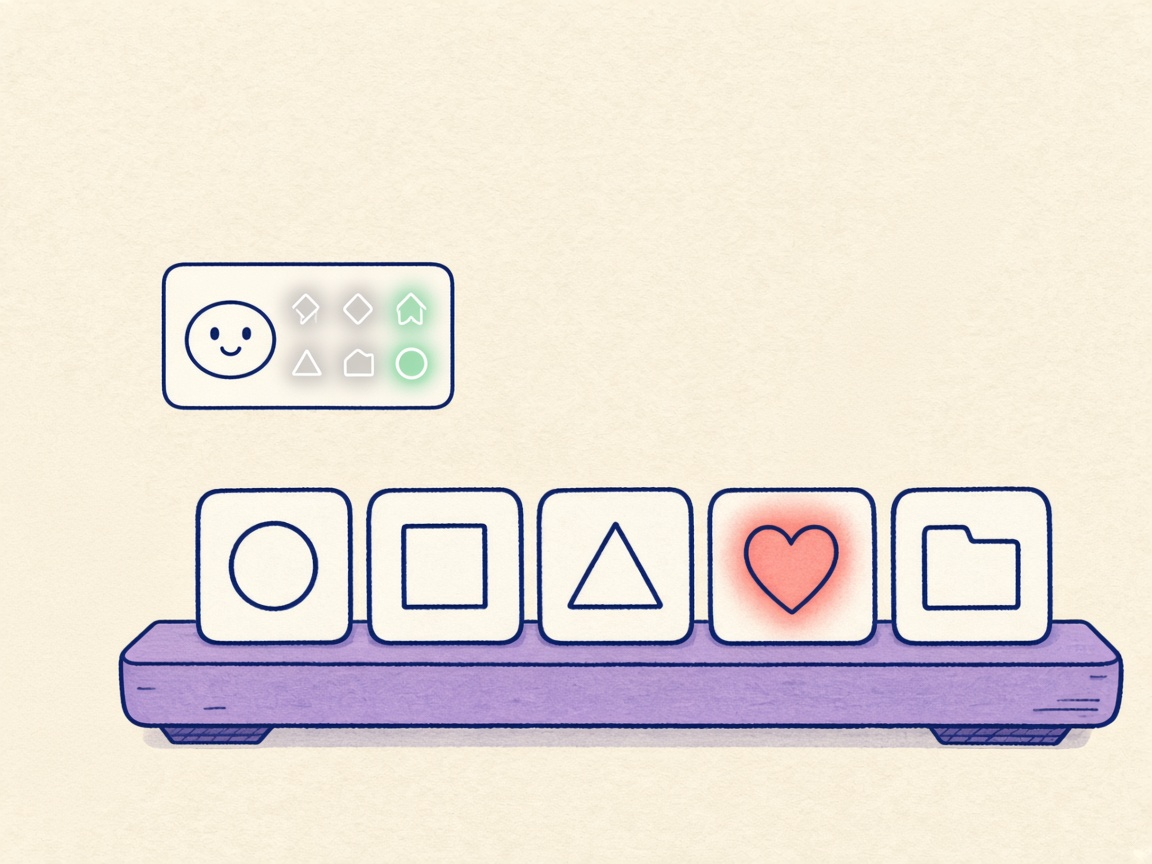
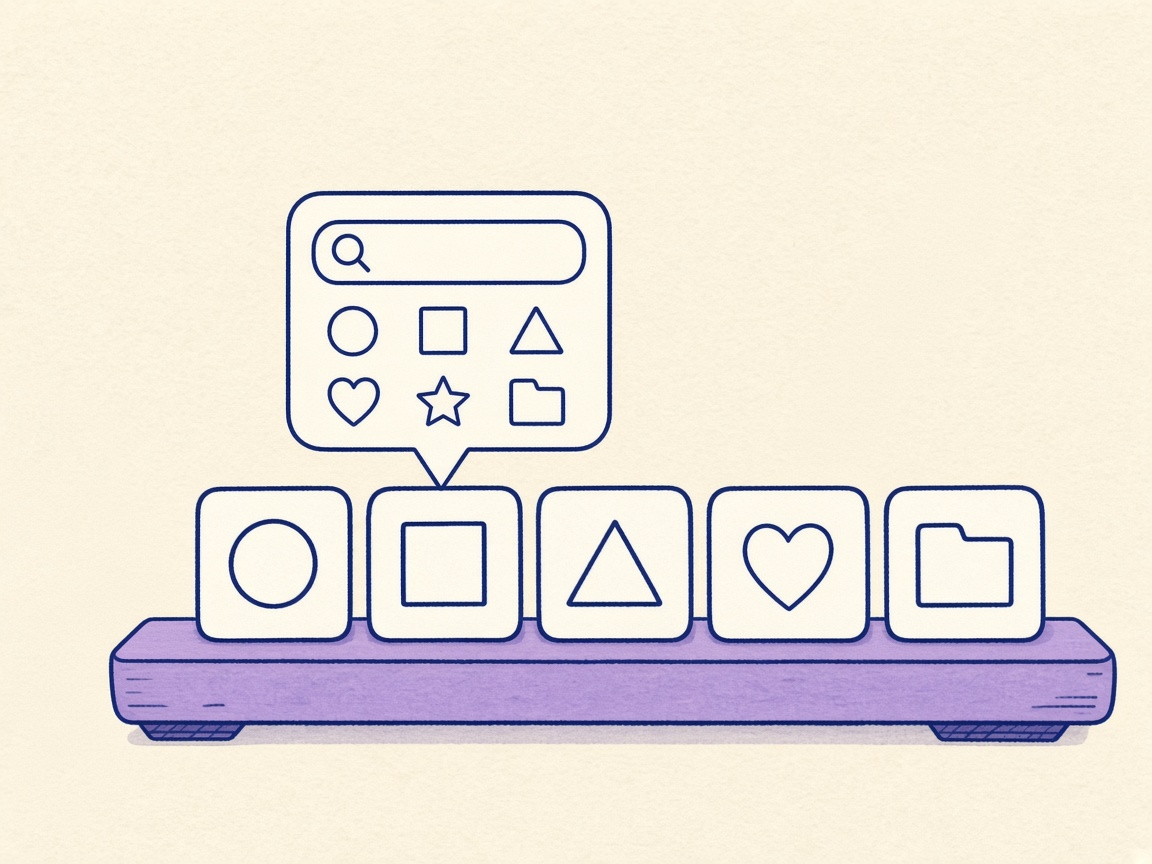
chore(release): redraw the 0.14.0 compact and tuck panels
The compact card points at one dock tile, and the macOS Dock peeks from the left edge of a screen. Alt text matches the drawings.

Changed region(s): [[0.0938, 0.2188, 1.0, 0.875], [0.1875, 0.625, 0.2188, 0.6875]]

diff --git a/docs/releases/0.14.0-comic.html b/docs/releases/0.14.0-comic.html
@@ -96,38 +96,38 @@
 
 <article class="panel">
 <h2>02 / Kompakt</h2>
-<img class="art" src="assets/0.14.0/panel-02.png" alt="Über dem Dock schwebt eine kleine Karte mit leerem Suchfeld und einem Raster aus weißen Strichsymbolen. Das Dock bleibt stehen. / A small card with an empty search field and a grid of white line glyphs floats above the dock. The dock stays put.">
+<img class="art" src="assets/0.14.0/panel-02.png" alt="Eine Karte mit leerem Suchbalken, Lupe und sechs weißen Strichsymbolen schwebt über einer runden lächelnden Dock-Kachel, und eine Spitze zeigt auf genau diese Kachel. / A card with an empty search bar, a magnifying glass, and six white line glyphs floats above one round smiling dock tile, and a tail points straight at that tile.">
 <div class="cols">
   <div class="lang">
     <h3>Deutsch</h3>
     <p class="title">Kleines Raster</p>
     <p class="speech mint">Ich bleibe klein.</p>
-    <p class="caption">Kompakt öffnet ein durchsuchbares App-Raster über der Launcher-Kachel. Das Dock bleibt an seinem Platz. Abgelegte Dateien öffnen den großen Launcher.</p>
+    <p class="caption">Eine kleine Karte mit leerem Suchbalken und weißen Strichsymbolen sitzt über einer Kachel. Eine Spitze zeigt auf sie. Das Dock bleibt stehen.</p>
   </div>
   <div class="lang">
     <h3>English</h3>
     <p class="title">A small grid</p>
     <p class="speech mint">I stay small.</p>
-    <p class="caption">Compact opens a searchable app grid above the Launcher tile. The dock stays put. Dropped files open the full Launcher.</p>
+    <p class="caption">A small card with an empty search bar and white line glyphs sits above one tile. A tail points at that tile. The dock stays put.</p>
   </div>
 </div>
 </article>
 
 <article class="panel">
 <h2>03 / Wegräumen</h2>
-<img class="art" src="assets/0.14.0/panel-03.png" alt="Ein kleines buntes Dock gleitet an den linken Rand und wird schmal. Das große Dock mit weißen Strichen bleibt unten. / A small colorful dock slides into the left edge and grows thin. The large dock of white lines stays along the bottom.">
+<img class="art" src="assets/0.14.0/panel-03.png" alt="In einem Bildschirmrahmen bleibt unten ein Dock aus weißen Strichen, während ein dünner bunter Streifen am linken Rand hervorschaut und eine ziffernlose Uhr mit zwei Zeigern daneben wartet. / Inside a screen frame, a dock of white line glyphs stays along the bottom, while a thin colorful strip peeks from the left edge and a blank clock with two hands waits beside it.">
 <div class="cols">
   <div class="lang">
     <h3>Deutsch</h3>
     <p class="title">An die Seite</p>
     <p class="speech coral">Ich warte am Rand.</p>
-    <p class="caption">macOS-Dock wegräumen blendet das macOS-Dock aus, macht es klein und schiebt es auf die andere Seite. Beenden stellt deine Werte zurück.</p>
+    <p class="caption">Ein dünner bunter Streifen rutscht in den linken Rand eines Bildschirms. Eine Uhr ohne Ziffern wartet daneben. Das große Dock mit weißen Strichen bleibt unten.</p>
   </div>
   <div class="lang">
     <h3>English</h3>
     <p class="title">Off to the side</p>
     <p class="speech coral">I wait at the edge.</p>
-    <p class="caption">Tuck Away hides the macOS Dock, shrinks it, and slides it to the other side. Quitting puts your settings back.</p>
+    <p class="caption">A thin colorful strip slides into the left edge of a screen. A blank clock waits beside it. The large dock of white lines stays along the bottom.</p>
   </div>
 </div>
 </article>

diff --git a/docs/releases/0.14.0-comic.md b/docs/releases/0.14.0-comic.md
@@ -16,23 +16,23 @@ Bekannte Apps werden weiße Strichsymbole. Eine ohne Symbol behält ihr Icon. Ze
 
 ## Panel 02 — Kompakt
 
-![Über dem Dock schwebt eine kleine Karte mit leerem Suchfeld und einem Raster aus weißen Strichsymbolen. Das Dock bleibt stehen.](assets/0.14.0/panel-02.png)
+![Eine Karte mit leerem Suchbalken, Lupe und sechs weißen Strichsymbolen schwebt über einer runden lächelnden Dock-Kachel, und eine Spitze zeigt auf genau diese Kachel.](assets/0.14.0/panel-02.png)
 
 **Kleines Raster**
 
 > Ich bleibe klein.
 
-Kompakt öffnet ein durchsuchbares App-Raster über der Launcher-Kachel. Das Dock bleibt an seinem Platz. Abgelegte Dateien öffnen den großen Launcher.
+Eine kleine Karte mit leerem Suchbalken und weißen Strichsymbolen sitzt über einer Kachel. Eine Spitze zeigt auf sie. Das Dock bleibt stehen.
 
 ## Panel 03 — Wegräumen
 
-![Ein kleines buntes Dock gleitet an den linken Rand und wird schmal. Das große Dock mit weißen Strichen bleibt unten.](assets/0.14.0/panel-03.png)
+![In einem Bildschirmrahmen bleibt unten ein Dock aus weißen Strichen, während ein dünner bunter Streifen am linken Rand hervorschaut und eine ziffernlose Uhr mit zwei Zeigern daneben wartet.](assets/0.14.0/panel-03.png)
 
 **An die Seite**
 
 > Ich warte am Rand.
 
-macOS-Dock wegräumen blendet das macOS-Dock aus, macht es klein und schiebt es auf die andere Seite. Beenden stellt deine Werte zurück.
+Ein dünner bunter Streifen rutscht in den linken Rand eines Bildschirms. Eine Uhr ohne Ziffern wartet daneben. Das große Dock mit weißen Strichen bleibt unten.
 
 ## English
 
@@ -50,20 +50,20 @@ Known apps become white line glyphs. One without a glyph keeps its icon. Hover a
 
 ### Panel 02 — Compact
 
-![A small card with an empty search field and a grid of white line glyphs floats above the dock. The dock stays put.](assets/0.14.0/panel-02.png)
+![A card with an empty search bar, a magnifying glass, and six white line glyphs floats above one round smiling dock tile, and a tail points straight at that tile.](assets/0.14.0/panel-02.png)
 
 **A small grid**
 
 > I stay small.
 
-Compact opens a searchable app grid above the Launcher tile. The dock stays put. Dropped files open the full Launcher.
+A small card with an empty search bar and white line glyphs sits above one tile. A tail points at that tile. The dock stays put.
 
 ### Panel 03 — Tuck away
 
-![A small colorful dock slides into the left edge and grows thin. The large dock of white lines stays along the bottom.](assets/0.14.0/panel-03.png)
+![Inside a screen frame, a dock of white line glyphs stays along the bottom, while a thin colorful strip peeks from the left edge and a blank clock with two hands waits beside it.](assets/0.14.0/panel-03.png)
 
 **Off to the side**
 
 > I wait at the edge.
 
-Tuck Away hides the macOS Dock, shrinks it, and slides it to the other side. Quitting puts your settings back.
+A thin colorful strip slides into the left edge of a screen. A blank clock waits beside it. The large dock of white lines stays along the bottom.
